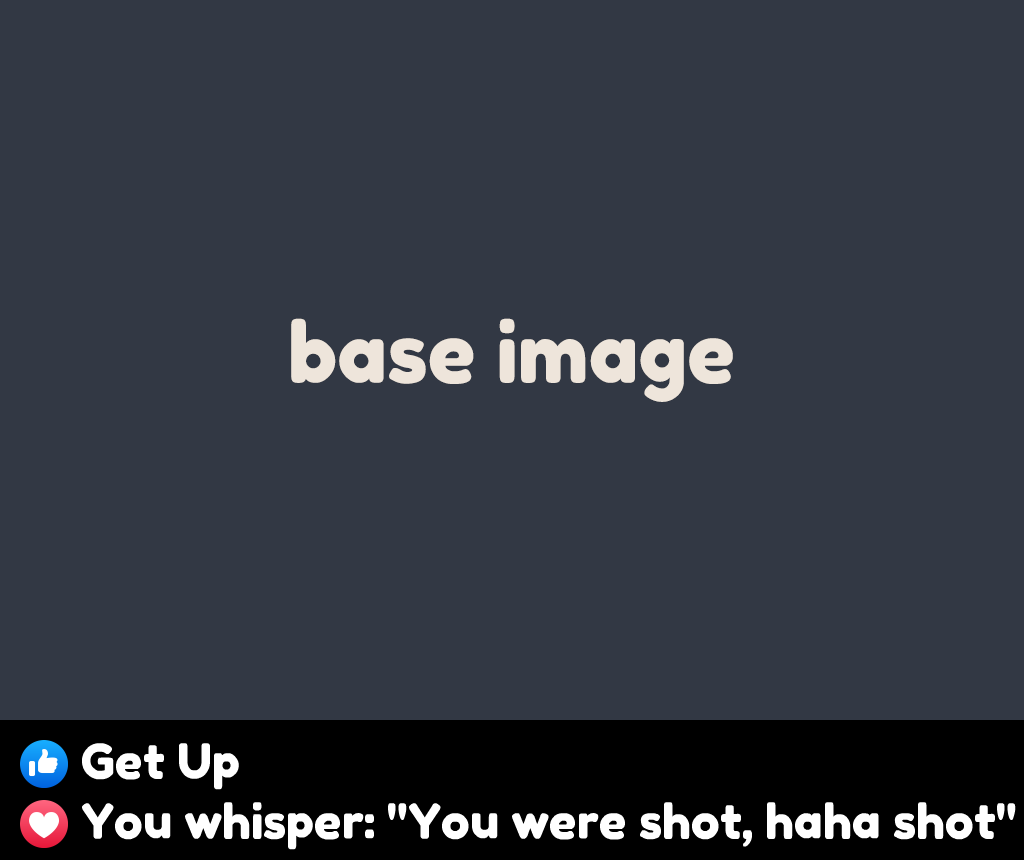
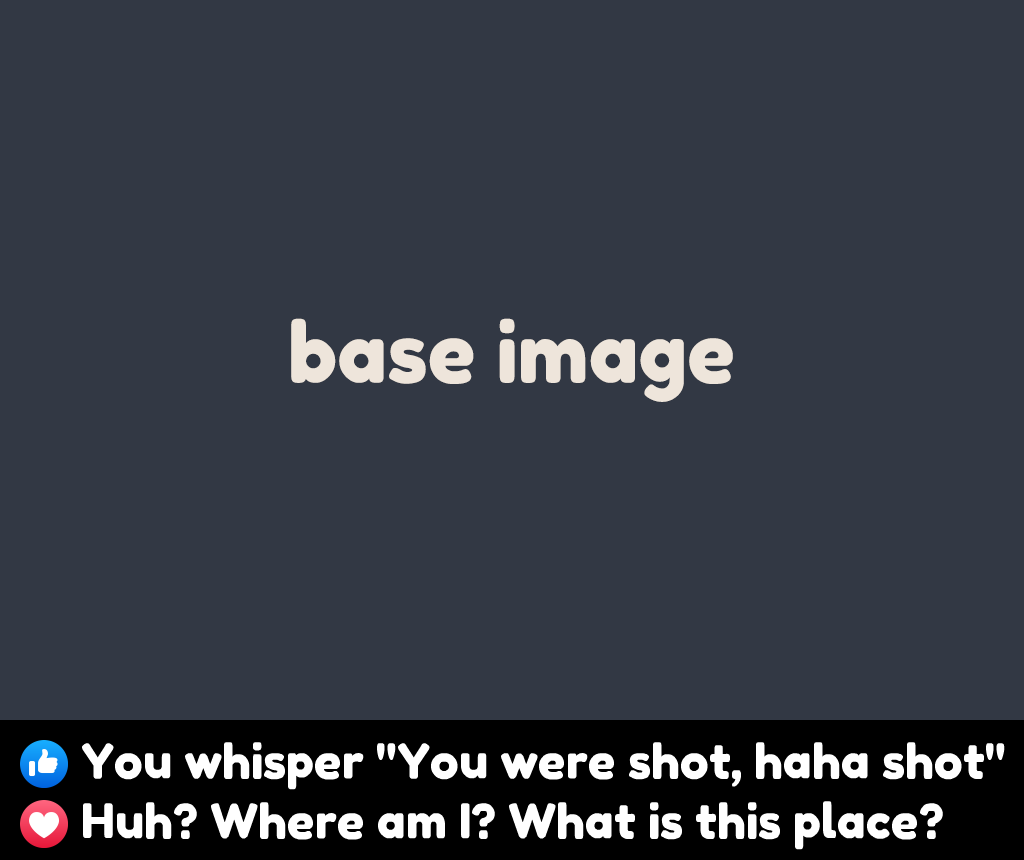
fix readme

Changed region(s): [[0.0625, 0.8465, 1.0, 0.9977]]

diff --git a/index.js b/index.js
@@ -72,20 +72,11 @@ new Task ()
             currentVotes = [0, 0, 0, 0, 0, 0];
 
             post.type = "post";
-            post.message = txt;
-            
+            // post.message = " ";
 
             await createImage (checkPoint, opts.value ? opts.value.options : []);
 
             post.media = `./output/${checkPoint}.png`;
-
-
-            // if (!opts.done) {
-            //     for (let i = 0; i < opts.value.options.length; i++) {
-            //         post.message += '\n';
-            //         post.message += Object.keys (reacts) [i] + ' ' + opts.value.options [i];
-            //     }
-            // }
 
             post.done ();
 
@@ -104,7 +95,7 @@ new Task ()
 
                 currentVotes = [0, 0, 0, 0, 0, 0];
 
-                post.message = txt.value.text;
+                // post.message = txt.value.text;
 
                 await createImage (checkPoint, opts.value.options);
 
@@ -147,7 +138,3 @@ let createImage = async (node, options) => {
 
     await outImage.writeAsync (`./output/${node}.png`);
 }
-
-// (async function () {
-//     await createImage ("Start", [ "Get Up", `You whisper: "You were shot, haha shot"` ]);
-// }) ();

diff --git a/readme.md b/readme.md
@@ -1,0 +1,7 @@
+### visual novel bot
+
+`git clone` this repo
+
+`npm install` in the directory to install modules
+
+`npm start` to run
